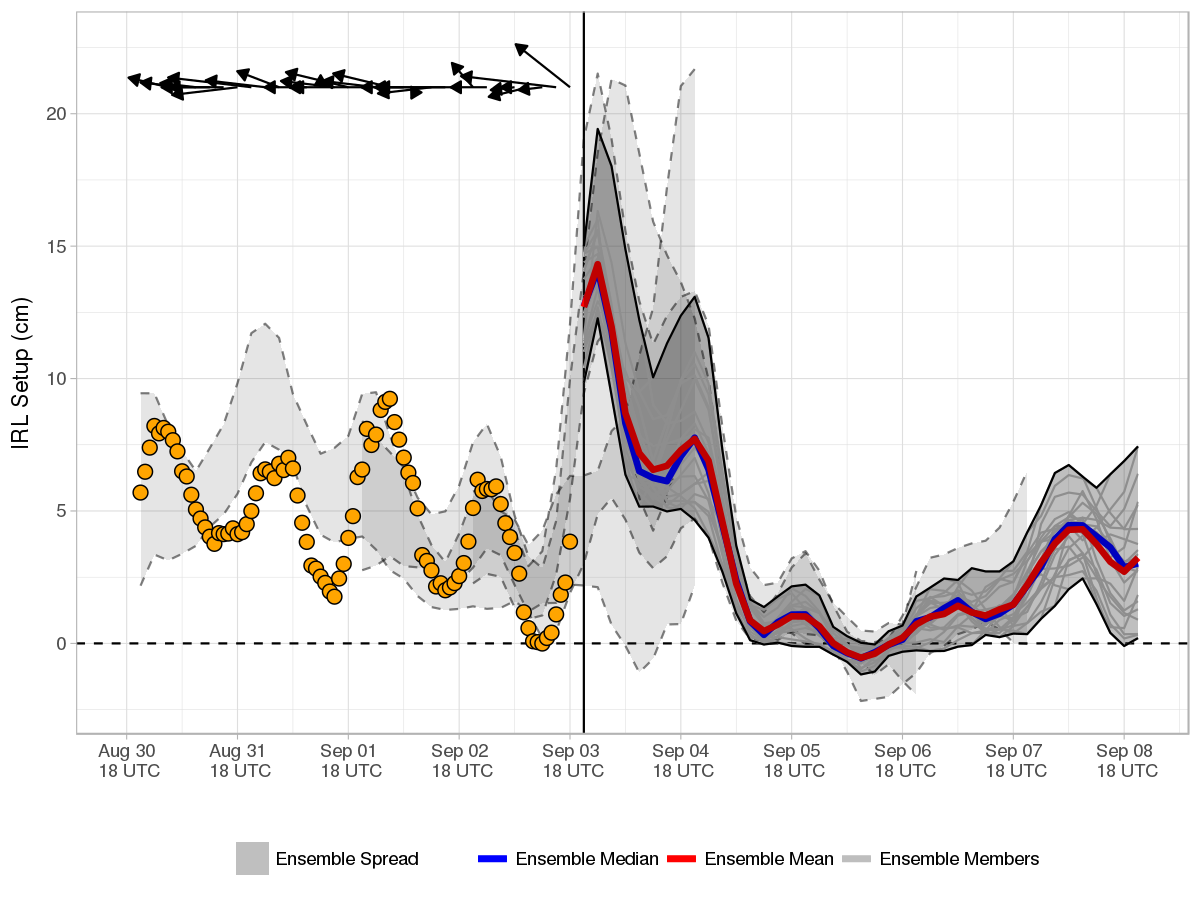
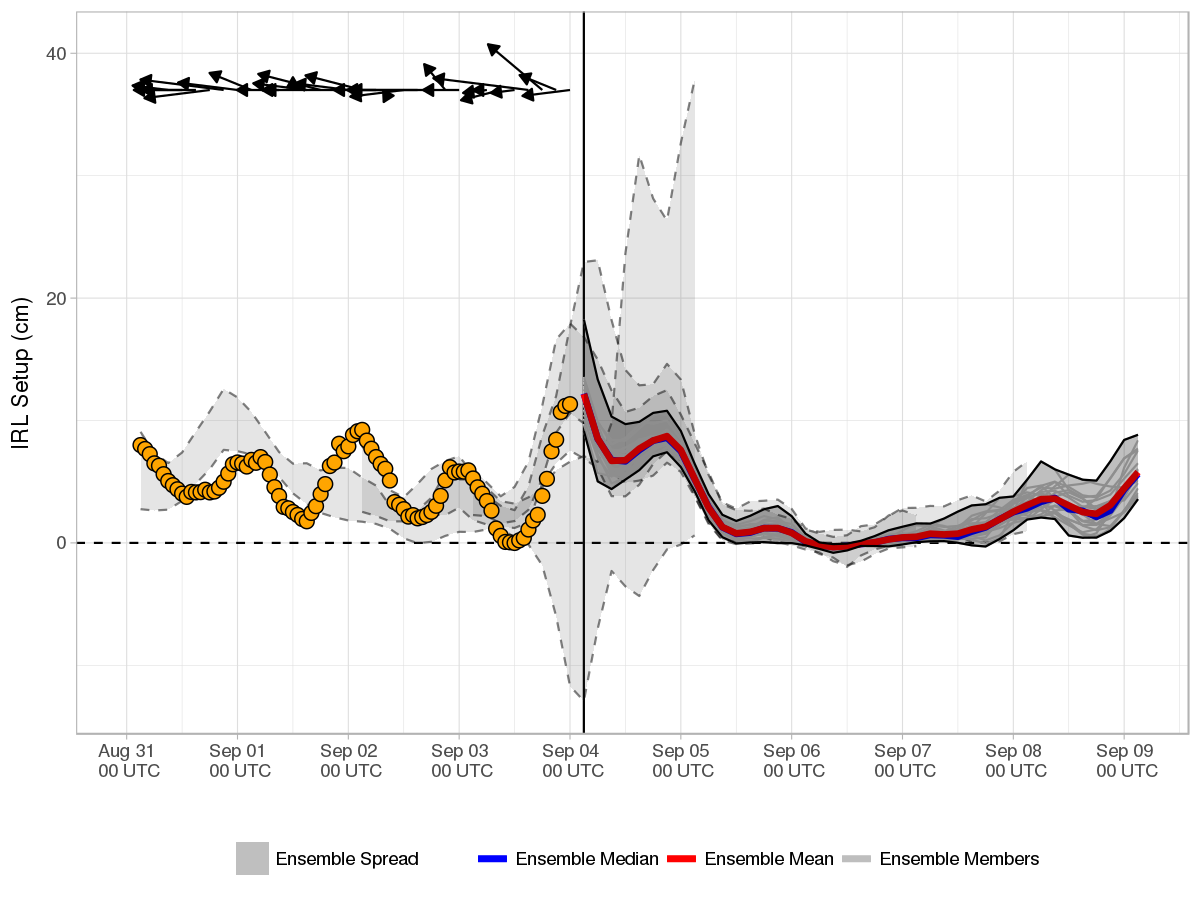
Forecast Update

diff --git a/docs/index.md b/docs/index.md
@@ -1,9 +1,9 @@
-Current Forecast 2018-09-03, Cycle 12 UTC
+Current Forecast 2018-09-03, Cycle 18 UTC
 -----------------------------------------
 
 [![](img/raw_setup.png)](https://fit-winds.github.io/IRLSetup/img/raw_setup.png)
 
-> Forecast valid 2018-09-03 14:25:19.
+> Forecast valid 2018-09-03 20:25:41.
 
 Explanation
 -----------
@@ -23,7 +23,7 @@ Ensemble Forecast System
 cycles. Calculation of the IRL setup is performed shortly after a new
 GEFS cycle is made available on the [data access
 link](http://www.ftp.ncep.noaa.gov/data/nccf/com/gens/prod/). The
-current cycle 2018-09-03 12 UTC 0.5° GEFS mean and median forecasts of
+current cycle 2018-09-03 18 UTC 0.5° GEFS mean and median forecasts of
 setup are represented by the red and blue curves, respectively. Ensemble
 spread from the current and three previous GEFS runs are shaded grey and
 bounded by solid and dashed curves, respectively.
